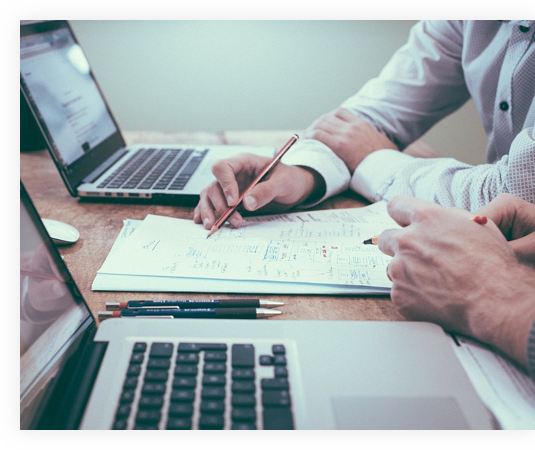
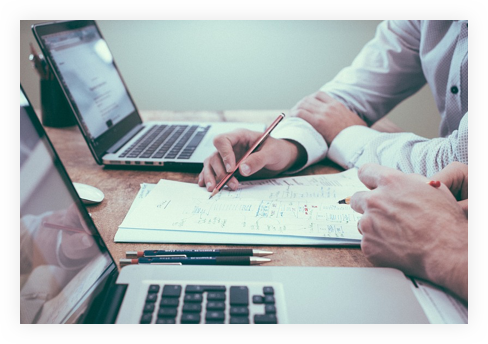
brand image

diff --git a/assets/css/homepage.css b/assets/css/homepage.css
@@ -2226,8 +2226,8 @@ div.test {
   .lb-filter-Img {
     height: 194px;
     padding-left: 15px;
-    -webkit-box-shadow: 0 4px 8px 0 rgba(0, 0, 0, 0.2), 0 6px 20px 0 rgba(0, 0, 0, 0.19);
-            box-shadow: 0 4px 8px 0 rgba(0, 0, 0, 0.2), 0 6px 20px 0 rgba(0, 0, 0, 0.19); }
+    -webkit-box-shadow: 0 0px 2px 0 rgba(0, 0, 0, 0.2), 0 6px 20px 0 rgba(0, 0, 0, 0.19);
+            box-shadow: 0 0px 2px 0 rgba(0, 0, 0, 0.2), 0 6px 20px 0 rgba(0, 0, 0, 0.19); }
   .lb-filter-service {
     padding-bottom: 24px; } }
 

diff --git a/assets/css/service.css b/assets/css/service.css
@@ -2226,8 +2226,8 @@ div.test {
   .lb-filter-Img {
     height: 194px;
     padding-left: 15px;
-    -webkit-box-shadow: 0 4px 8px 0 rgba(0, 0, 0, 0.2), 0 6px 20px 0 rgba(0, 0, 0, 0.19);
-            box-shadow: 0 4px 8px 0 rgba(0, 0, 0, 0.2), 0 6px 20px 0 rgba(0, 0, 0, 0.19); }
+    -webkit-box-shadow: 0 0px 2px 0 rgba(0, 0, 0, 0.2), 0 6px 20px 0 rgba(0, 0, 0, 0.19);
+            box-shadow: 0 0px 2px 0 rgba(0, 0, 0, 0.2), 0 6px 20px 0 rgba(0, 0, 0, 0.19); }
   .lb-filter-service {
     padding-bottom: 24px; } }
 

diff --git a/assets/css/workpage.css b/assets/css/workpage.css
@@ -2226,8 +2226,8 @@ div.test {
   .lb-filter-Img {
     height: 194px;
     padding-left: 15px;
-    -webkit-box-shadow: 0 4px 8px 0 rgba(0, 0, 0, 0.2), 0 6px 20px 0 rgba(0, 0, 0, 0.19);
-            box-shadow: 0 4px 8px 0 rgba(0, 0, 0, 0.2), 0 6px 20px 0 rgba(0, 0, 0, 0.19); }
+    -webkit-box-shadow: 0 0px 2px 0 rgba(0, 0, 0, 0.2), 0 6px 20px 0 rgba(0, 0, 0, 0.19);
+            box-shadow: 0 0px 2px 0 rgba(0, 0, 0, 0.2), 0 6px 20px 0 rgba(0, 0, 0, 0.19); }
   .lb-filter-service {
     padding-bottom: 24px; } }
 

diff --git a/_assets/css/pages/_sass/workpage/workpage.scss b/_assets/css/pages/_sass/workpage/workpage.scss
@@ -482,7 +482,7 @@ button.lb_btn:focus {
     .lb-filter-Img {
         height: 194px;
         padding-left:15px;
-        box-shadow:  0 4px 8px 0 rgba(0, 0, 0, 0.2), 0 6px 20px 0 rgba(0, 0, 0, 0.19);
+        box-shadow:  0 0px 2px 0 rgba(0, 0, 0, 0.2), 0 6px 20px 0 rgba(0, 0, 0, 0.19);
     }
     .lb-filter-service{
         padding-bottom: 24px;
